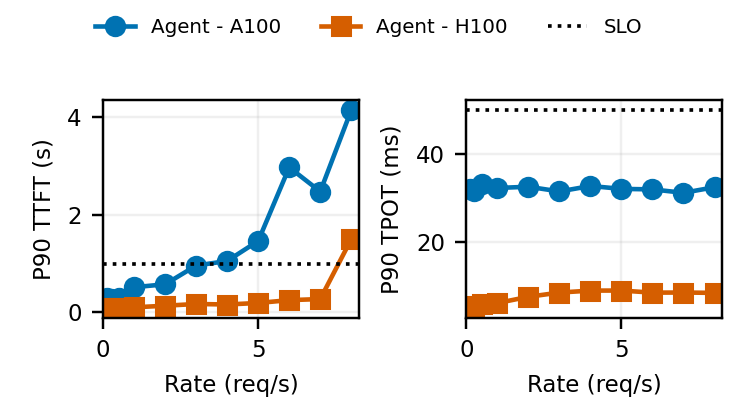
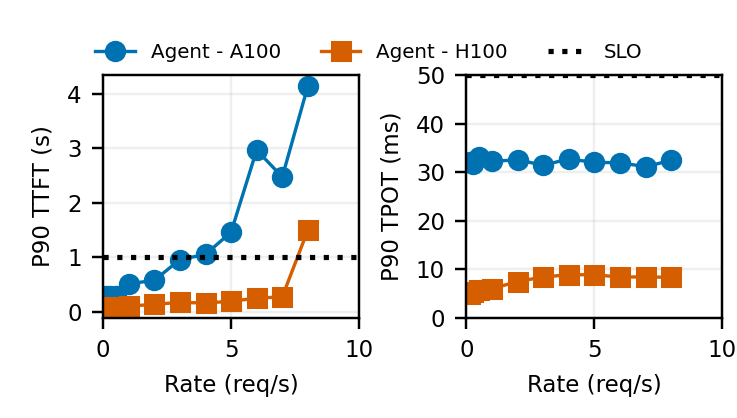
Refine agent latency figure axes

diff --git a/agent-migrate/queue-haul/plot_agentic_rps_sweep.py b/agent-migrate/queue-haul/plot_agentic_rps_sweep.py
@@ -44,22 +44,24 @@ def plot_summary(summary: dict, output: Path, h100: dict | None = None) -> None:
                        f"Agent - {plot_style.AGENTIC_HARDWARE_NAMES[hardware]}"),
                 color=plot_style.AGENTIC_HARDWARE_COLORS[hardware],
                 marker=plot_style.AGENTIC_HARDWARE_MARKERS[hardware],
-                linewidth=1.5,
+                linewidth=1.1,
             )
         axis.axhline(
             SLOS[field] * scale, color="black", linestyle=":",
-            linewidth=1.2, label="SLO",
+            linewidth=1.7, label="SLO", zorder=5,
         )
         axis.set_ylabel(ylabel, fontsize=plot_style.HALF_COLUMN_FONT_SIZE)
         axis.set_xlabel("Rate (req/s)", fontsize=plot_style.HALF_COLUMN_FONT_SIZE)
         axis.tick_params(labelsize=plot_style.HALF_COLUMN_FONT_SIZE)
         axis.grid(alpha=.2)
-    axes[-1].set_xlim(0, max(row["offered_rps"] for rows in curves.values()
-                             for row in rows) + .25)
+    for axis in axes:
+        axis.set_xlim(0, 10)
+    axes[1].set_ylim(0, 50)
     handles, labels = axes[0].get_legend_handles_labels()
     figure.legend(handles, labels, frameon=False, ncol=len(handles),
-                  loc="upper center", fontsize=plot_style.HALF_COLUMN_LEGEND_FONT_SIZE)
-    figure.subplots_adjust(left=.14, right=.98, bottom=.24, top=.76, wspace=.42)
+                  loc="upper center", bbox_to_anchor=(.5, .94),
+                  fontsize=plot_style.HALF_COLUMN_LEGEND_FONT_SIZE)
+    figure.subplots_adjust(left=.14, right=.98, bottom=.24, top=.82, wspace=.42)
     output.parent.mkdir(parents=True, exist_ok=True)
     for suffix in ("pdf", "png"):
         figure.savefig(output.with_suffix(f".{suffix}"), dpi=plot_style.SAVE_DPI)

diff --git a/agent-migrate/queue-haul/tests/test_plot_agentic_rps_sweep.py b/agent-migrate/queue-haul/tests/test_plot_agentic_rps_sweep.py
@@ -42,6 +42,8 @@ def test_plot_selects_sorted_gpt_oss_curve_and_fixed_slos(tmp_path, monkeypatch)
     assert len(axes) == 2
     assert plt.gcf().get_figwidth() <= 3.5
     assert axes[0].get_position().x0 < axes[1].get_position().x0
+    assert axes[0].get_xlim() == axes[1].get_xlim() == (0, 10)
+    assert axes[1].get_ylim() == (0, 50)
     assert list(axes[0].lines[0].get_xdata()) == [1, 2]
     assert list(axes[0].lines[0].get_ydata()) == [1, 2]
     assert axes[0].lines[0].get_label() == "OpenHands Agentic"
@@ -88,6 +90,7 @@ def test_plot_compares_matching_hardware_with_one_shared_slo(tmp_path,
     assert [list(line.get_ydata()) for line in lines] == [[3], [1], [1, 1]]
     assert [list(line.get_ydata()) for line in figure.axes[1].lines] \
         == [[30], [50], [50, 50]]
+    assert lines[-1].get_linewidth() > lines[0].get_linewidth()
     assert [text.get_text() for text in figure.legends[0].texts] == [
         "Agent - A100", "Agent - H100", "SLO"]
     plt.close("all")
